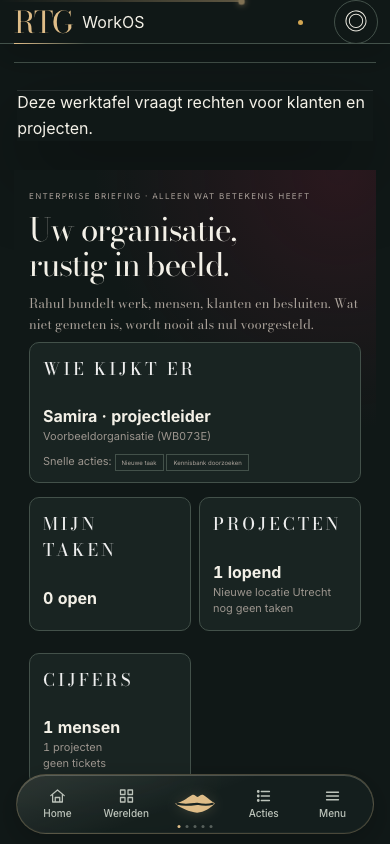
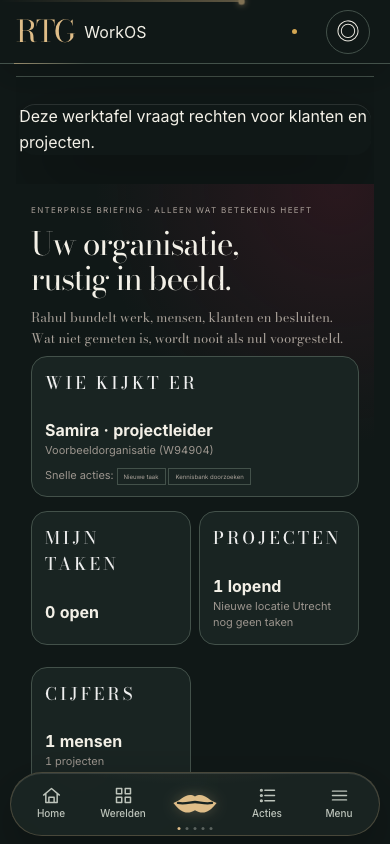
Refresh RTG release evidence

diff --git a/public/shared/rtg-cinematic-system.css b/public/shared/rtg-cinematic-system.css
@@ -77,7 +77,7 @@ body[data-rtg-cinematic="true"] [data-rtg-component="NarrativePanel"]{
     color-mix(in srgb,var(--rtg-world-card) 94%,transparent)!important;
 }
 body[data-rtg-cinematic="true"] :is([data-rtg-component="ContextStrip"],[data-rtg-component="OperationalPanel"],[data-rtg-component="NarrativePanel"],[data-rtg-component="State"]){
-  border-radius:var(--rtg-frame-radius)!important;
+  border-radius:var(--rtg-radius-editorial)!important;
 }
 body[data-rtg-cinematic="true"] [data-rtg-component="ContextStrip"]{
   box-shadow:none!important;
@@ -104,7 +104,7 @@ body[data-rtg-cinematic="true"] .rtg-adaptive-surface{
   box-shadow:inset 0 1px 0 rgba(255,250,240,.12),0 18px 52px rgba(0,0,0,.26)!important;
   backdrop-filter:blur(30px) saturate(1.08);-webkit-backdrop-filter:blur(30px) saturate(1.08);
 }
-body[data-rtg-cinematic="true"] .rtg-adaptive-bar{border-radius:999px!important}
+body[data-rtg-cinematic="true"] .rtg-adaptive-bar{border-radius:var(--rtg-radius-capsule)!important}
 body[data-rtg-cinematic="true"] .rtg-adaptive-item[data-rtg-adaptive-action="ai"]{
   display:flex!important;align-items:center!important;justify-content:center!important;
 }
@@ -172,7 +172,7 @@ body[data-rtg-cinematic="true"] .rtg-edge-top::after{opacity:.52}
   body[data-rtg-cinematic="true"] [data-rtg-cinematic-lead="true"]{
     box-sizing:border-box;width:100%!important;max-width:100%!important;
     min-height:clamp(360px,58svh,500px);margin:0!important;
-    padding:22px 20px!important;border:1px solid var(--rtg-cinema-hairline)!important;border-radius:var(--rtg-frame-radius)!important;
+    padding:22px 20px!important;border:1px solid var(--rtg-cinema-hairline)!important;border-radius:var(--rtg-radius-editorial)!important;
     background-image:linear-gradient(0deg,rgba(7,6,5,.95),rgba(7,6,5,.10) 74%),var(--rtg-cinema-photo)!important;
   }
   body[data-rtg-cinematic="true"] [data-rtg-cinematic-lead="true"] :is(h1,h2){font-size:clamp(36px,10vw,48px)!important;max-width:17ch}

diff --git a/public/sw.js b/public/sw.js
@@ -1,7 +1,4 @@
-/* RTG app, service worker: cachet de app-schil zodat de app installeerbaar
-   is en offline opent. API-verkeer gaat altijd naar het netwerk.
-   Pagina's en scripts zijn network-first: een update op de server komt
-   direct door, de cache is alleen het vangnet zonder verbinding. */
+/* RTG app-schil: network-first, met een offline vangnet. */
 /* DE CACHENAAM IS DE VINGERAFDRUK VAN DE SCHIL, en dat is hij nu ook echt:
    sha256 over de bestanden hieronder, eerste acht tekens. Draai
    `npm run swcache` na een wijziging aan de schil; keuringsregel controleert
@@ -14,7 +11,7 @@
    installeerde in de periode dat de `cache: 'no-cache'` hieronder was
    gesneuveld (zie de toelichting daar). Een naam die uit de INHOUD komt kan
    niet vergeten worden. */
-const CACHE = 'rtg-app-ea2d6ac7';
+const CACHE = 'rtg-app-734654fd';
 const SHELL = [
   /* The mandatory desktop standard is available offline too. */
   '/shared/interface/module-sdk.js',

diff --git a/test/rtg-heritage.test.js b/test/rtg-heritage.test.js
@@ -43,7 +43,7 @@ test('vier vaste werelden delen één volledige token- en dieptegrammatica', () 
     assert.match(PALETTE, /--rtg-world-photo:none!important;/, wereld + ' mag geen foto wereldwijd herhalen');
   }
   for (const token of ['--rtg-depth-content:', '--rtg-depth-focus:', '--rtg-depth-system:',
-    '--rtg-radius-content:10px', '--rtg-radius-editorial:16px', '--rtg-radius-system:24px', '--rtg-radius-capsule:999px', '--rtg-target:48px']) {
+    '--rtg-radius-content:16px', '--rtg-radius-editorial:16px', '--rtg-radius-system:24px', '--rtg-radius-capsule:999px', '--rtg-target:48px']) {
     assert.ok(TOKENS.includes(token), token + ' ontbreekt');
   }
 });

diff --git a/scripts/check.js b/scripts/check.js
@@ -4801,6 +4801,7 @@ console.log('\n58) vaste hoekgrammatica: centrale inhouds-, systeem- en capsulev
   // radii. Keep the scope explicit so unrelated routes cannot bypass the rule.
   const editorialSurfaces = [
     'public/shared/rtg-adaptive-edge.css', 'public/shared/rtg-editorial-system.css',
+    'public/shared/rtg-cinematic-system.css',
     'public/shared/rtg-communication-surface.css', 'public/shared/rtg-mail-2026.css',
     'public/shared/rtg-world-home.css', 'public/apps/wereld-feed.css',
     'public/apps/muziek-heritage.css'

diff --git a/BEWIJS.md b/BEWIJS.md
@@ -4,7 +4,7 @@
 toetsbestanden. Wijzig het niet met de hand: regel 41 van `npm run keuring` genereert
 opnieuw en vergelijkt. Er staat geen datum in -- zie `ARCHITECTUUR.md` voor waarom.
 
-Waarom dit bestaat: "de toetsen staan groen" zegt bij 2440 bestanden en 16700 beweringen
+Waarom dit bestaat: "de toetsen staan groen" zegt bij 2441 bestanden en 16705 beweringen
 bijna niets. Je wil weten **wat** er groen staat, en of iemand die bewering ooit heeft
 zien zakken. `LAT.md` regel 9: een toets die niet kan zakken is erger dan geen toets.
 
@@ -12,14 +12,14 @@ zien zakken. `LAT.md` regel 9: een toets die niet kan zakken is erger dan geen t
 
 | | Aantal |
 |---|---|
-| toetsbestanden | 2440 |
-| losse beweringen (`test(...)`) | 16700 |
-| bestanden zonder kop (dus zonder opgeschreven bewering) | 304 |
+| toetsbestanden | 2441 |
+| losse beweringen (`test(...)`) | 16705 |
+| bestanden zonder kop (dus zonder opgeschreven bewering) | 305 |
 | **gezakt** op een mutatie (bewezen gevoelig) | 2266 |
 | **overleefd**: geen mutatie kreeg hem rood | 0 |
 | niet te meten (al rood, geen module gevonden, ...) | 174 |
 | alleen in de kop *genoemd*, nog niet gemeten | 0 |
-| niets van beide | 0 |
+| niets van beide | 1 |
 
 De regel **overleefd** is de werkvoorraad, en het is een feit en geen verwijt: zo'n
 toets kan prima iets nuttigs doen, maar het gedrag dat de motor kan raken legt hij
@@ -33,7 +33,7 @@ toets omvalt.
 
 ## Servertoetsen (`npm test`)
 
-2132 bestanden, 16163 beweringen.
+2133 bestanden, 16168 beweringen.
 
 | Toets | # | Mutatie | Bewering |
 |---|---|---|---|
@@ -1575,6 +1575,7 @@ toets omvalt.
 | `rtfwelzijn2.test.js` | 3 | gezakt op `liegpoort /api/` | RTF-golf 6 (deel 2): de nieuwe coach-soorten voor de welzijnsapps. Zonder AI-sleutel geeft elke soort zijn EIGEN warme demotekst (de knop werkt dus altijd), een onbekende soort valt veilig terug, en de... |
 | `rtg-a11y.test.js` | 8 | gezakt op `&&->||#0` | DE TOEGANKELIJKHEIDSADAPTER -- leest hij de keuring werkelijk goed uit? scripts/rtg-a11y.js voegt geen regels toe: hij richt de bestaande machinerie (scripts/a11ykeuring.js en scripts/raakvlakkeuring.js) op een... |
 | `rtg-adaptive-edge.test.js` | 10 | gezakt op `===->!==#0` | **geen kop** -- deze toets zegt nergens wat hij bewijst |
+| `rtg-cinematic-system.test.js` | 5 | -- | **geen kop** -- deze toets zegt nergens wat hij bewijst |
 | `rtg-continue-key.test.js` | 10 | gezakt op `===->!==#0` | De Continue Key mag rijk bewegen, maar blijft exact de bestaande primaire Edge-knop. Deze toets bewaakt identiteit, veilige ankers, toetsenbord, langdruk, geometrie, a11y, opslag en motion-koppeling. |
 | `rtg-edge-2-pilots.test.js` | 15 | gezakt op `===->!==#0` | De eerste acht Vandaag-routes sluiten declaratief aan op Edge 2, terwijl het bestaande Edge-casco de enige eigenaar van top, side en bottom blijft. Deze toets bewaakt de routecontexten, de centrale loaderhandshake en... |
 | `rtg-edge-2.test.js` | 14 | gezakt op `===->!==#0` | Edge 2.0 bestuurt het bestaande casco. Deze toets borgt dat er geen tweede balkenstelsel, netwerklaag of onbegrensde contextselectie ontstaat. |

diff --git a/ARCHITECTUUR.md b/ARCHITECTUUR.md
@@ -23,8 +23,8 @@ Een meetkast vertelt je of er iets stuk is, niet waar de dingen staan.
 | routebestanden (`server/routes/**`) | 646 |
 | kernmodules (`server/kern/**`) | 2676 |
 | schermen (`public/**/*.html`) | 327 |
-| gedeelde browsermodules (`public/shared/*.js`) | 426 |
-| toetsbestanden (`test/*.test.js`) | 2132 |
+| gedeelde browsermodules (`public/shared/*.js`) | 427 |
+| toetsbestanden (`test/*.test.js`) | 2133 |
 | schermtoetsen (`test/*.e2e.js`) | 308 |
 
 ## 2. De weg van een verzoek

diff --git a/FUNCTIES.md b/FUNCTIES.md
@@ -23,7 +23,7 @@ het?**
 | API-routes (uit de router) | **4738** |
 | Kernmodules (`server/kern/**`) | **2676** |
 | App-pagina's (`public/apps/**.html`) | **316** |
-| Testbestanden | **2440** |
+| Testbestanden | **2441** |
 
 ## De vier werelden
 

diff --git a/BUNDELS.md b/BUNDELS.md
@@ -566,7 +566,7 @@ omlaag.
 
 ## `shared/basis.js`
 
-`public/shared/basis/` -- 10 delen, 915 regels in de delen
+`public/shared/basis/` -- 10 delen, 916 regels in de delen
 
 | deel | onderwerp |
 |---|---|
